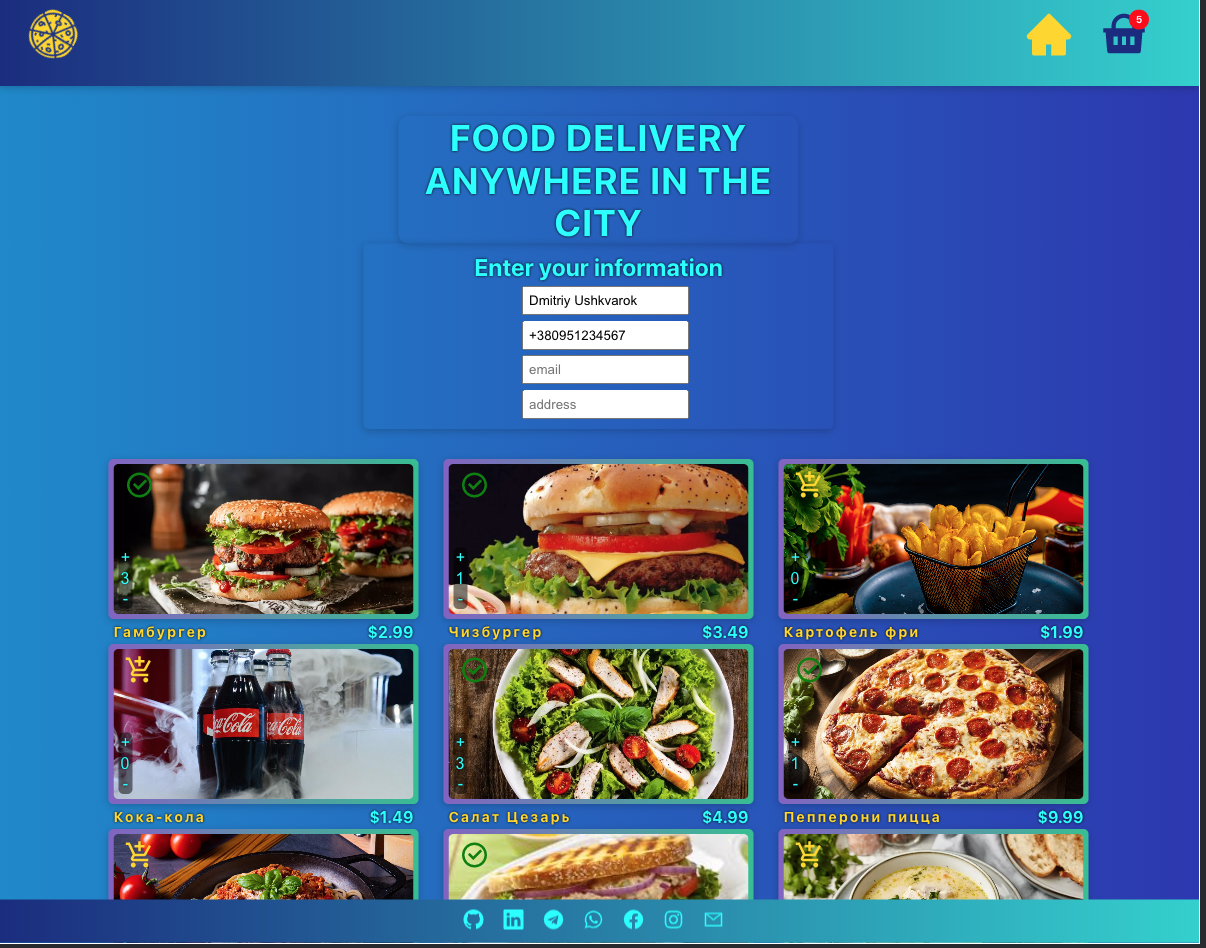
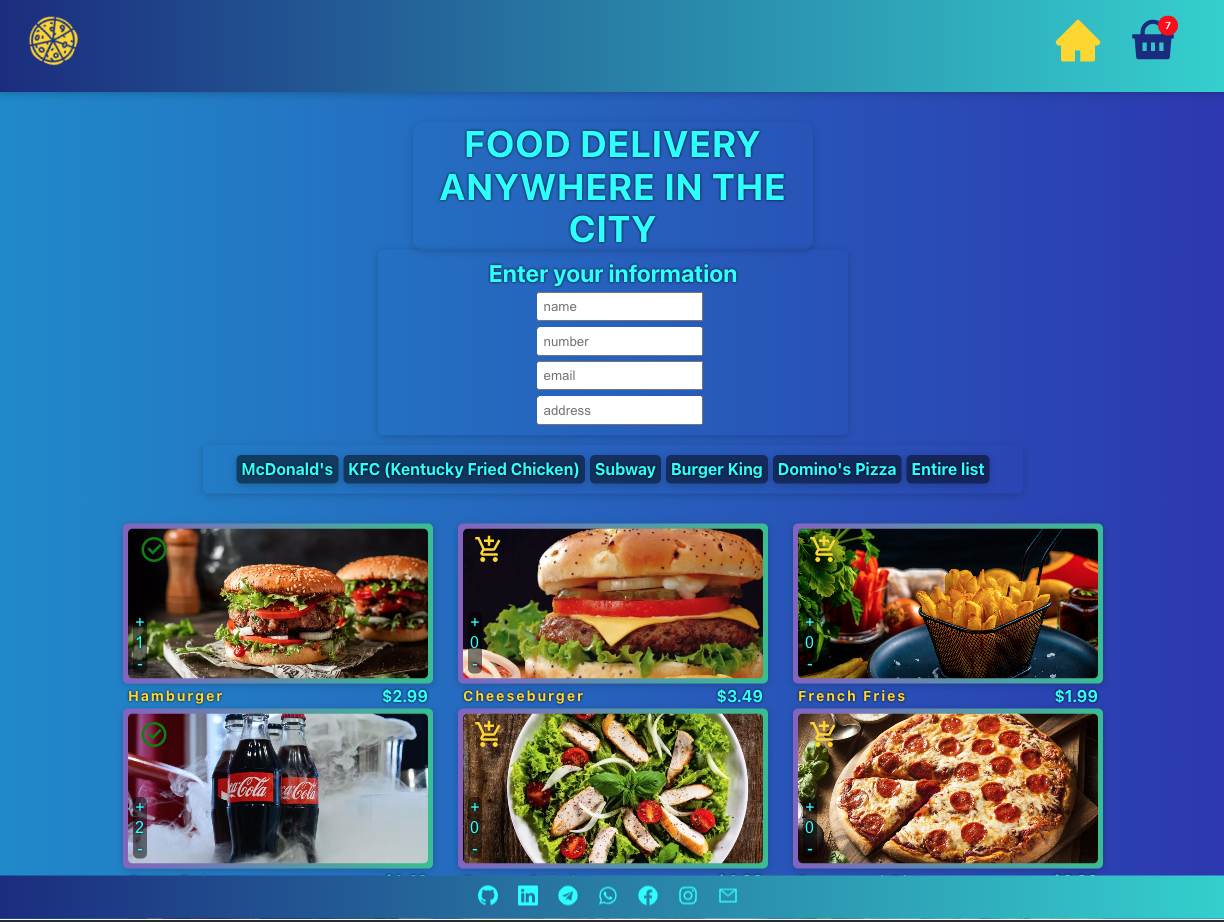
update json file , update style, added filter list restaurant ,update readme file

diff --git a/src/Pages/HomePage/HomePage.jsx b/src/Pages/HomePage/HomePage.jsx
@@ -1,4 +1,5 @@
 import Header from 'components/Header/Header';
+import FilterProducts from 'components/FilterProducts/FilterProducts';
 import {
   OrderForm,
   OrderFormTitle,
@@ -46,7 +47,7 @@ const HomePage = () => {
     number: '',
     address: '',
   });
-
+  const [filteredItems, setFilteredItems] = useState(delivery.items);
   const isMounted = useRef(true);
 
   useEffect(() => {
@@ -113,6 +114,7 @@ const HomePage = () => {
         await addDoc(collection(firestore, 'products'), {
           name: selectedItem.name,
           price: selectedItem.price,
+          store: selectedItem.store,
           image: selectedItem.image || 'https://dummyimage.com/200x300/fff/aaa',
           selected: true,
           count: count[id] || 0,
@@ -161,6 +163,17 @@ const HomePage = () => {
       ...prevValues,
       [name]: value,
     }));
+  };
+
+  // Фильтрация товаров на основе выбранного магазина
+  const handleFilterChange = storeName => {
+    if (storeName === '') {
+      setFilteredItems(delivery.items);
+    } else {
+      const filtered = delivery.items.filter(item => item.store === storeName);
+      setFilteredItems(filtered);
+      setFilteredItems(filtered);
+    }
   };
 
   return (
@@ -216,8 +229,9 @@ const HomePage = () => {
           />
         </OrderFormGroup>
       </OrderForm>
+      <FilterProducts onFilterChange={handleFilterChange} />
       <FoodList>
-        {delivery.items.map(item => (
+        {filteredItems.map(item => (
           <FoodItem key={item.id}>
             <FoodItemImage
               src={

diff --git a/src/components/FilterProducts/FilterProducts.jsx b/src/components/FilterProducts/FilterProducts.jsx
@@ -1,0 +1,36 @@
+import { FilterList, FilterItem } from './FilterProducts.styleled';
+
+const FilterProducts = ({ onFilterChange }) => {
+  const handleItemClick = storeName => {
+    onFilterChange(storeName);
+  };
+
+  const handleShowAll = () => {
+    onFilterChange('');
+  };
+
+  return (
+    <div>
+      <FilterList>
+        <FilterItem onClick={() => handleItemClick("McDonald's")}>
+          McDonald's
+        </FilterItem>
+        <FilterItem onClick={() => handleItemClick('KFC')}>
+          KFC (Kentucky Fried Chicken)
+        </FilterItem>
+        <FilterItem onClick={() => handleItemClick('Subway')}>
+          Subway
+        </FilterItem>
+        <FilterItem onClick={() => handleItemClick('Burger King')}>
+          Burger King
+        </FilterItem>
+        <FilterItem onClick={() => handleItemClick('Dominos Pizza')}>
+          Domino's Pizza
+        </FilterItem>
+        <FilterItem onClick={handleShowAll}>Entire list</FilterItem>
+      </FilterList>
+    </div>
+  );
+};
+
+export default FilterProducts;

diff --git a/src/components/FilterProducts/FilterProducts.styleled.js b/src/components/FilterProducts/FilterProducts.styleled.js
@@ -1,0 +1,35 @@
+import styled from 'styled-components';
+
+export const FilterList = styled.ul`
+  width: 100%;
+  max-width: 800px;
+  display: flex;
+  justify-content: center;
+  align-items: center;
+  flex-wrap: wrap;
+  margin-left: auto;
+  margin-right: auto;
+  gap: 5px;
+  margin-top: 10px;
+  box-shadow: var(--box-shadow-header);
+  padding: 10px;
+  border-radius: var(--border-radius);
+`;
+
+export const FilterItem = styled.li`
+  padding: 5px;
+  border-radius: var(--border-radius);
+  background-color: rgba(0, 0, 0, 0.5);
+  color: aqua;
+  text-shadow: var(--text-shadow);
+  font-size: 16px;
+  font-weight: bold;
+  cursor: pointer;
+  box-shadow: var(--box-shadow-header);
+  transition: var(--transition);
+
+  &:hover {
+    color: gold;
+    background-color: rgba(0, 0, 0, 0.2);
+  }
+`;

diff --git a/src/Pages/BasketPage/BasketPage.jsx b/src/Pages/BasketPage/BasketPage.jsx
@@ -154,6 +154,9 @@ const BasketPage = ({ orderCount }) => {
                       <BasketPageItemName>
                         Product: {product.name}
                       </BasketPageItemName>
+                      <BasketPageItemCount>
+                        Restaurant chain:{product.store}
+                      </BasketPageItemCount>
                       <BasketPageItemPrice>
                         Price: ${product.price}
                       </BasketPageItemPrice>

diff --git a/src/Pages/HomePage/HomePage.styled.js b/src/Pages/HomePage/HomePage.styled.js
@@ -175,6 +175,7 @@ export const BtnIncrement = styled.button`
   background-color: transparent;
   color: aqua;
   text-shadow: var(--text-shadow);
+  cursor: pointer;
 `;
 
 export const InputCounter = styled.input`
@@ -199,4 +200,5 @@ export const BtnDecrement = styled.button`
   background-color: transparent;
   color: aqua;
   text-shadow: var(--text-shadow);
+  cursor: pointer;
 `;

diff --git a/README.md b/README.md
@@ -15,6 +15,19 @@ selected quantity. If no quantity is selected, placing an order is not possible.
 The state of the add-to-cart icon and the selected quantity counter are stored
 in the local storage.
 
+Restaurant Selection Filter The application includes a restaurant selection
+filter, allowing users to choose a specific restaurant when ordering food. The
+filter enables users to browse and select from a list of available restaurants.
+
+Choose Entire List of Items In addition to the restaurant selection filter, the
+application provides a convenient button that allows users to choose the entire
+list of items from popular fast-food chains. The available options include:
+
+McDonald's KFC (Kentucky Fried Chicken) Burger King Domino's Pizza By clicking
+on the respective button, users can add the complete list of items from the
+chosen restaurant to their cart, making it easier to order a variety of products
+in one go.
+
 Cart Page The cart page displays cards with the selected items added by the
 user. Each card includes customer information entered during the order process,
 as well as the product name, price, and total quantity. If there are multiple
